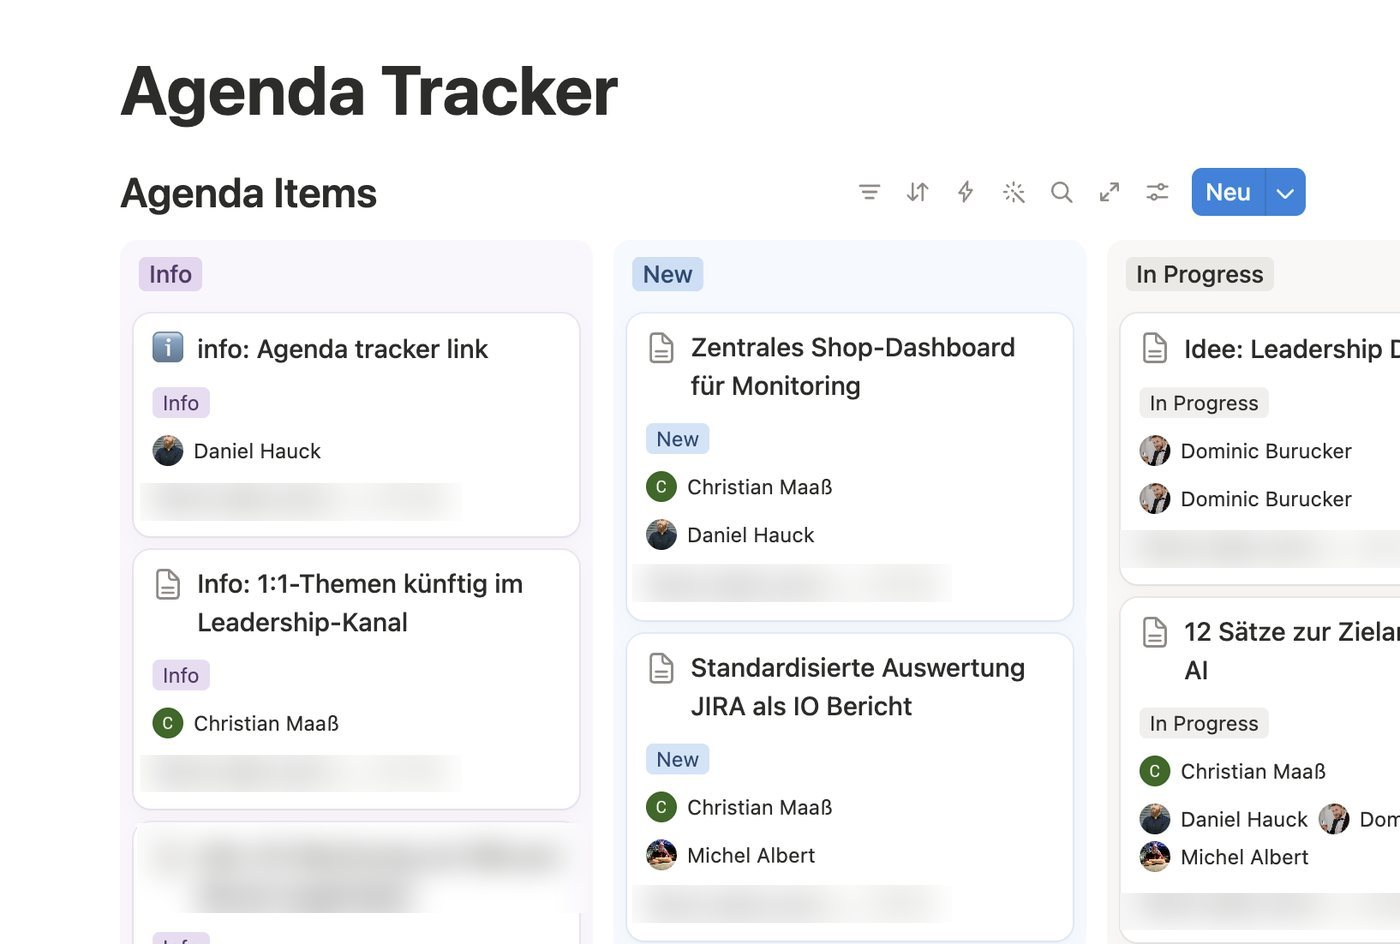
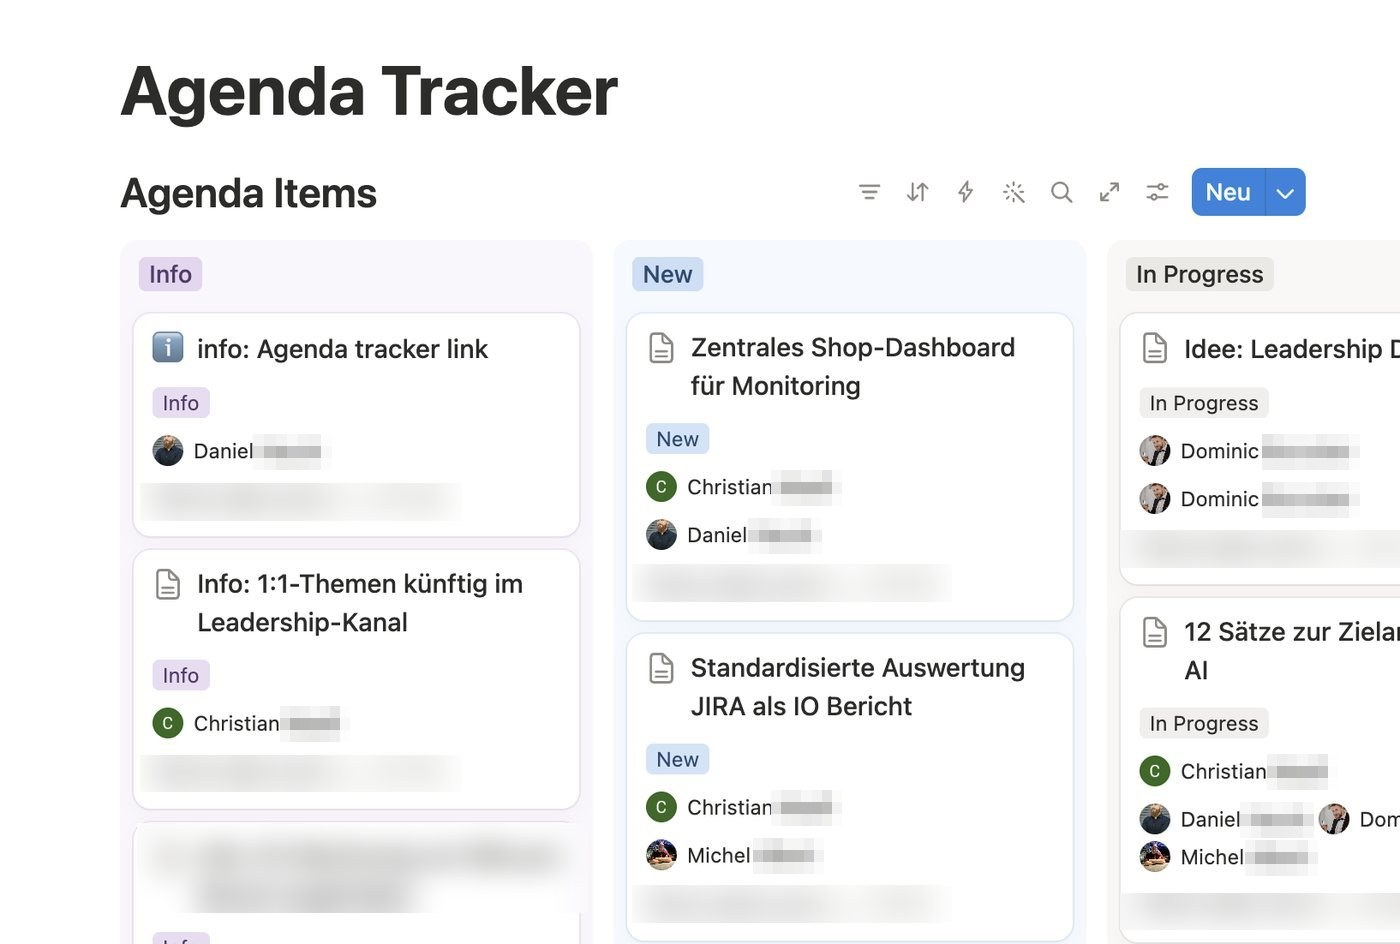
content: EHI-2026 — Nachnamen auf Folie 11 verpixelt, Titel Folie 12 neu

diff --git a/public/ehi2026/index.html b/public/ehi2026/index.html
@@ -507,12 +507,12 @@
       <div class="medien">
 
         <figure>
-          <div class="rahmen"><img src="bilder/slack.jpg" alt="Slack-Kanal mit Bot-Reaktion auf Nachrichten"></div>
+          <div class="rahmen"><img src="bilder/slack.jpg?v=2" alt="Slack-Kanal mit Bot-Reaktion auf Nachrichten"></div>
           <figcaption><b>In Slack markieren</b> – der Bot reagiert auf die Nachricht</figcaption>
         </figure>
 
         <figure>
-          <div class="rahmen"><img src="bilder/tracker.jpg" alt="Agenda Tracker in Notion mit automatisch angelegten Einträgen"></div>
+          <div class="rahmen"><img src="bilder/tracker.jpg?v=2" alt="Agenda Tracker in Notion mit automatisch angelegten Einträgen"></div>
           <figcaption><b>Im Agenda Tracker</b> – angelegt und aus dem Kontext angereichert</figcaption>
         </figure>
 
@@ -522,11 +522,11 @@
     <p class="credit">Dr. Christian Maaß</p>
   </section>
 
-  <!-- 12 — Die Organisationsentwicklung verändert den Loop -->
+  <!-- 12 — Die Organisation arbeitet in einem neuen Loop -->
   <section class="slide slide--inhalt slide--loop" data-theme="light" aria-label="Folie 12">
     <header>
       <div class="titelgruppe">
-        <h1>Die Organisationsentwicklung verändert den Loop</h1>
+        <h1>Die Organisation arbeitet in einem neuen Loop</h1>
       </div>
       <div class="logo"><img src="bilder/logo.png" alt="Thomann — Music is our passion"></div>
     </header>
